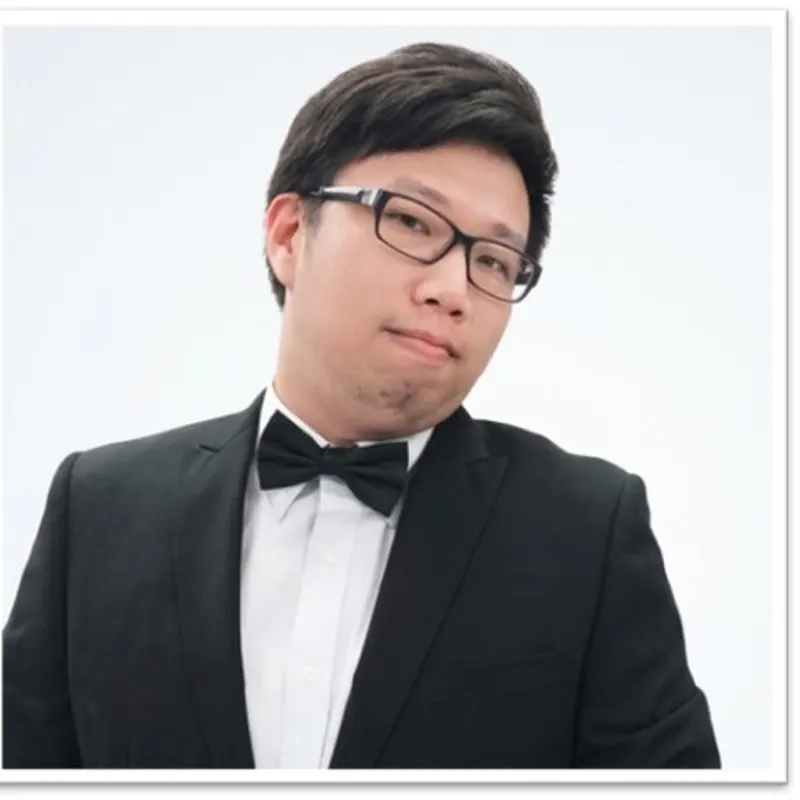
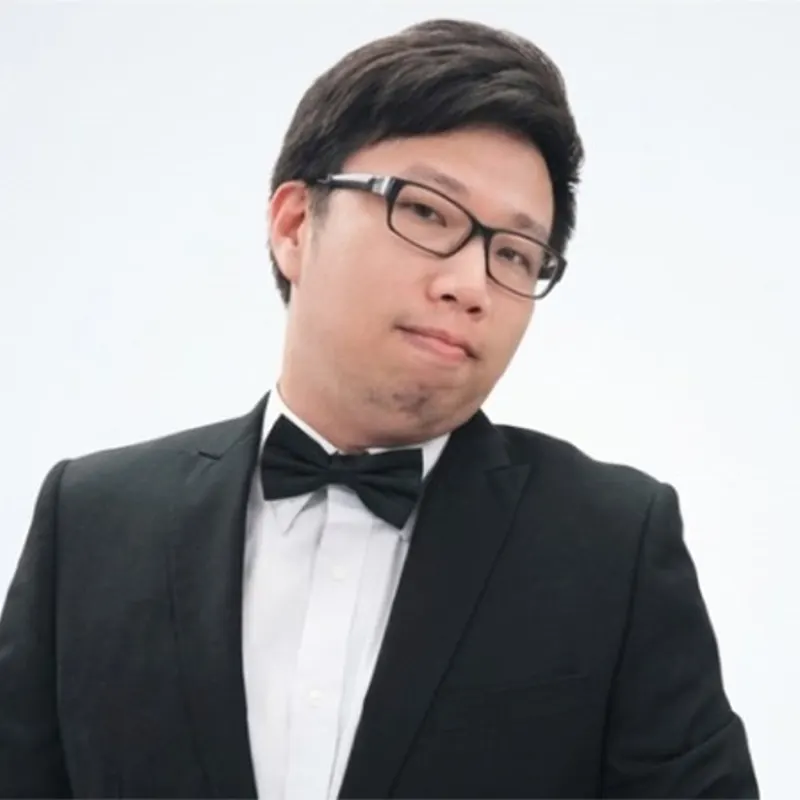
fix: refine judge portraits and title

Changed region(s): [[0.0, 0.0, 1.0, 1.0], [0.0625, 0.7188, 0.0938, 0.8125]]

diff --git a/content.js b/content.js
@@ -612,8 +612,8 @@ window.JUDGES = [
     nameEn: "Kai-Ping Hsu",
     affiliationZh: "中國醫藥大學附設醫院｜資訊部主任、資安長",
     affiliationEn: "Director of Information Technology and Chief Information Security Officer, China Medical University Hospital",
-    imageJpg: "assets/judges/kai-ping-hsu.jpg?v=2",
-    imageWebp: "assets/judges/kai-ping-hsu.webp?v=2",
+    imageJpg: "assets/judges/kai-ping-hsu.jpg?v=3",
+    imageWebp: "assets/judges/kai-ping-hsu.webp?v=3",
     alt: { "zh-Hant": "許凱平 照片", en: "Portrait of Kai-Ping Hsu" }
   },
   {
@@ -637,8 +637,8 @@ window.JUDGES = [
   {
     nameZh: "莊豐源",
     nameEn: "Frank Chuang",
-    affiliationZh: "國立政治大學資訊管理學系",
-    affiliationEn: "Department of Management Information Systems, National Chengchi University",
+    affiliationZh: "國立政治大學資訊管理學系｜助理教授",
+    affiliationEn: "Assistant Professor, Department of Management Information Systems, National Chengchi University",
     imageJpg: "assets/judges/frank-chuang.jpg",
     imageWebp: "assets/judges/frank-chuang.webp",
     alt: { "zh-Hant": "莊豐源 照片", en: "Portrait of Frank Chuang" }
@@ -648,8 +648,8 @@ window.JUDGES = [
     nameEn: "Tony Lin",
     affiliationZh: "美家人力資源股份有限公司",
     affiliationEn: "MAY-GOD HUMAN RESOURCES CO., LTD",
-    imageJpg: "assets/judges/tony-lin.jpg",
-    imageWebp: "assets/judges/tony-lin.webp",
+    imageJpg: "assets/judges/tony-lin.jpg?v=2",
+    imageWebp: "assets/judges/tony-lin.webp?v=2",
     alt: { "zh-Hant": "林冠杰 照片", en: "Portrait of Tony Lin" }
   },
   {
